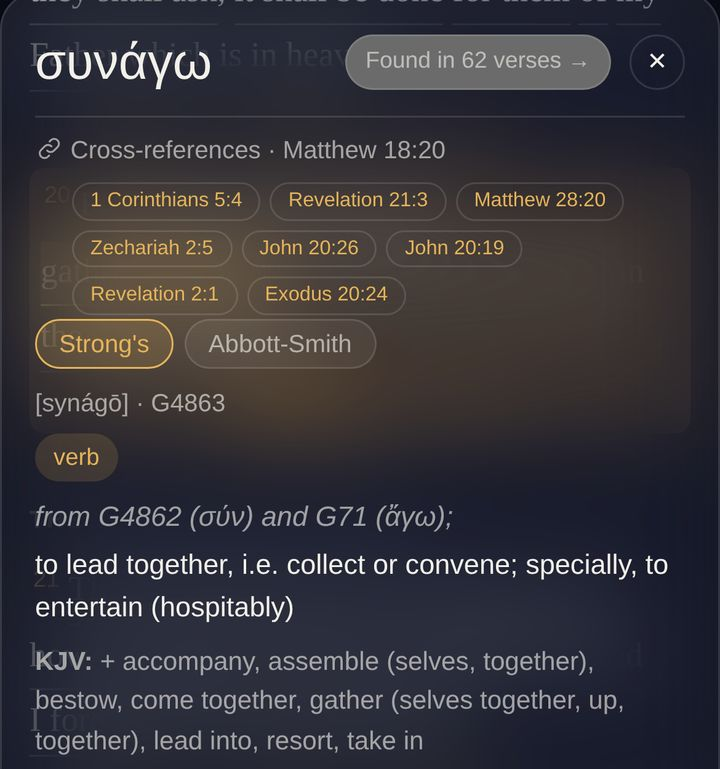
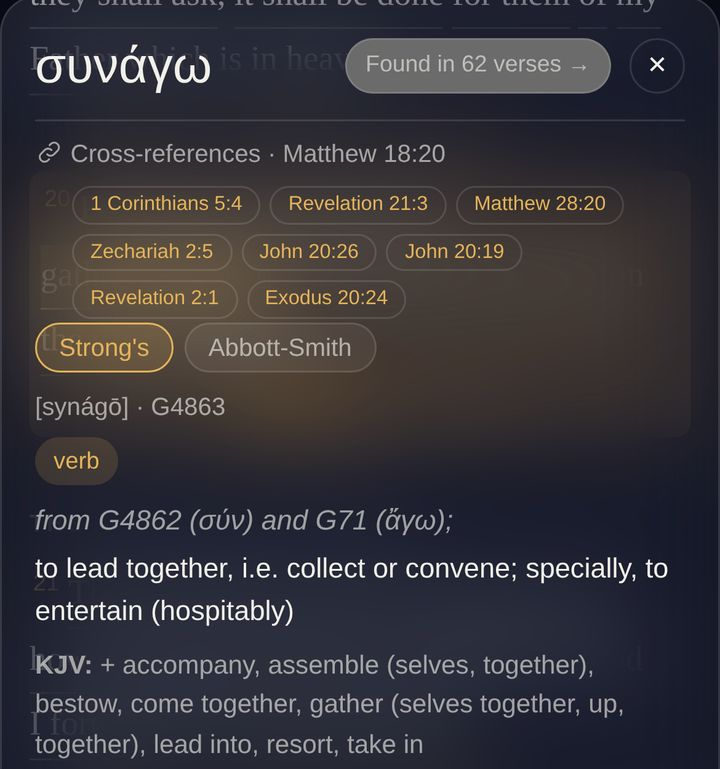
The tour matches the theme it is seen in
Every screen of the tour was recaptured three times — once in each theme —
and CSS now picks the set that matches the theme the reader is actually in.
A parchment reader gets a parchment tour; the grey theme gets its own
captures, red letters and gold buttons kept, because that is genuinely how
it paints them. The hand-desaturated red-letters variant is gone, replaced
by the real thing; so is the filter fakery that needed it — the grey
captures are exempted from the photo-greying rule, which would otherwise
have filtered back out the one colour the theme keeps.

Only the visible theme's images download: lazy loading skips an image that
is display:none, so the three sets cost no more than one.

The demo reader is Jack Malachuk now, throughout — the member list, the
session RSVPs, and the conversation that opens with his name.

diff --git a/components/TourStrip.tsx b/components/TourStrip.tsx
@@ -6,31 +6,28 @@
 // screen wanted it too. One list, one markup, so the two places that show the
 // tour cannot drift apart — the same reason the menu is written once.
 //
-// The images are plain files under /tour, fetched lazily and left out of the
-// service worker's caches on purpose: someone who meets the tour once should
-// not carry 650KB of pictures around for it. Every image states its aspect
-// ratio inline so the shelf is laid out before a single byte of it arrives,
-// and the strip never reflows as slides load in.
+// Every screen was captured three times, once in each theme, and CSS picks
+// the set that matches the theme the reader is actually in — a tour that
+// shows the app as it looks right now, not as it looked to whoever took the
+// pictures. No filter fakery: the grey captures keep their red letters and
+// their gold buttons because that is genuinely how the grey theme paints
+// them. Only the visible theme's images download — lazy loading skips a
+// display:none image entirely.
+//
+// The files are plain JPEGs under /tour, left out of the service worker's
+// caches on purpose: someone who meets the tour once should not carry the
+// pictures around for it. Every image states its aspect ratio inline so the
+// shelf is laid out before a single byte arrives, and never reflows.
 
 import { useI18n, type MessageKey } from "@/lib/i18n";
 
-/**
- * Every slide: the file under /tour, its pixel size, and its i18n stem.
- *
- * `grey` names a second rendering of the same screen for the grey theme.
- * That theme runs every image through grayscale(1) — right for photographs,
- * and even for these screenshots, which come out looking like the grey theme
- * itself — but the red-letters slide exists to show the one colour the grey
- * theme keeps, and a filter cannot spare part of a picture. So that slide
- * carries a variant desaturated by hand around its red letters, swapped in
- * by CSS when the theme asks (see .tour-img-grey).
- */
-const SLIDES: Array<{ img: string; w: number; h: number; key: string; grey?: string }> = [
+/** Every slide: the file stem under /tour, its pixel size, its i18n stem. */
+const SLIDES: Array<{ img: string; w: number; h: number; key: string }> = [
   { img: "reader", w: 720, h: 993, key: "tourReader" },
   { img: "study", w: 720, h: 977, key: "tourStudy" },
   { img: "lexicon", w: 720, h: 769, key: "tourLexicon" },
   { img: "concordance", w: 720, h: 1122, key: "tourConcordance" },
-  { img: "redletters", w: 720, h: 1066, key: "tourRed", grey: "redletters-grey" },
+  { img: "redletters", w: 720, h: 1066, key: "tourRed" },
   { img: "gathering", w: 720, h: 869, key: "tourGathering" },
   { img: "sessions", w: 720, h: 929, key: "tourSessions" },
   { img: "prayer", w: 720, h: 720, key: "tourPrayer" },
@@ -38,30 +35,30 @@ const SLIDES: Array<{ img: string; w: number; h: number; key: string; grey?: str
   { img: "journal", w: 720, h: 924, key: "tourJournal" },
 ];
 
+/** dark is the bare name; the other two carry their theme as a suffix */
+const THEMES = [
+  { cls: "tour-dark", suffix: "" },
+  { cls: "tour-light", suffix: "-light" },
+  { cls: "tour-grey", suffix: "-grey" },
+];
+
 export default function TourStrip() {
   const { t } = useI18n();
   return (
     <div className="tour-strip" role="list">
-      {SLIDES.map(({ img, w, h, key, grey }) => (
+      {SLIDES.map(({ img, w, h, key }) => (
         <figure className="tour-slide" role="listitem" key={img}>
-          <img
-            className={grey ? "tour-img-color" : undefined}
-            src={`/tour/${img}.jpg`}
-            alt={t(`about.${key}` as MessageKey)}
-            loading="lazy"
-            decoding="async"
-            style={{ aspectRatio: `${w} / ${h}` }}
-          />
-          {grey && (
+          {THEMES.map(({ cls, suffix }) => (
             <img
-              className="tour-img-grey"
-              src={`/tour/${grey}.jpg`}
+              key={cls}
+              className={cls}
+              src={`/tour/${img}${suffix}.jpg`}
               alt={t(`about.${key}` as MessageKey)}
               loading="lazy"
               decoding="async"
               style={{ aspectRatio: `${w} / ${h}` }}
             />
-          )}
+          ))}
           <figcaption>
             <strong>{t(`about.${key}` as MessageKey)}</strong>
             <span>{t(`about.${key}Desc` as MessageKey)}</span>

diff --git a/app/globals.css b/app/globals.css
@@ -1039,24 +1039,34 @@ html.welcoming {
   margin-top: 2px;
 }
 
-/* The red-letters slide, in the grey theme. That theme greys every image,
-   which suits the other slides — greyed, they look like the grey theme
-   itself — but this one exists to show the single colour the theme keeps,
-   and a filter cannot spare part of a picture. So the slide carries a second
-   rendering, desaturated by hand around its red letters, and the theme picks
-   which of the two is real. The filter must be lifted from the variant too,
-   or the hand-kept red would be greyed right back out. */
-.tour-slide img.tour-img-grey {
+/* Each slide was captured once per theme, and the theme picks which capture
+   is real. The default (no data-theme, or an explicit dark) is the dark set;
+   light and grey swap in their own. Hidden images never download — lazy
+   loading skips a display:none element. */
+.tour-slide img.tour-light,
+.tour-slide img.tour-grey {
   display: none;
 }
 
-:root[data-theme="grey"] .tour-slide img.tour-img-grey {
+:root[data-theme="light"] .tour-slide img.tour-dark,
+:root[data-theme="grey"] .tour-slide img.tour-dark {
+  display: none;
+}
+
+:root[data-theme="light"] .tour-slide img.tour-light {
   display: block;
-  filter: none;
 }
 
-:root[data-theme="grey"] .tour-slide img.tour-img-color {
-  display: none;
+:root[data-theme="grey"] .tour-slide img.tour-grey {
+  display: block;
+}
+
+/* The grey captures already ARE the grey theme — its own greys, its kept-red
+   letters, its gold primary buttons. The photo-greying rule above must not
+   run them through grayscale again, or the one colour the theme keeps would
+   be filtered back out of the very slide that demonstrates it. */
+:root[data-theme="grey"] .tour-slide img {
+  filter: none;
 }
 
 /* The note about the underlines is a paragraph of small print, not a one-line
